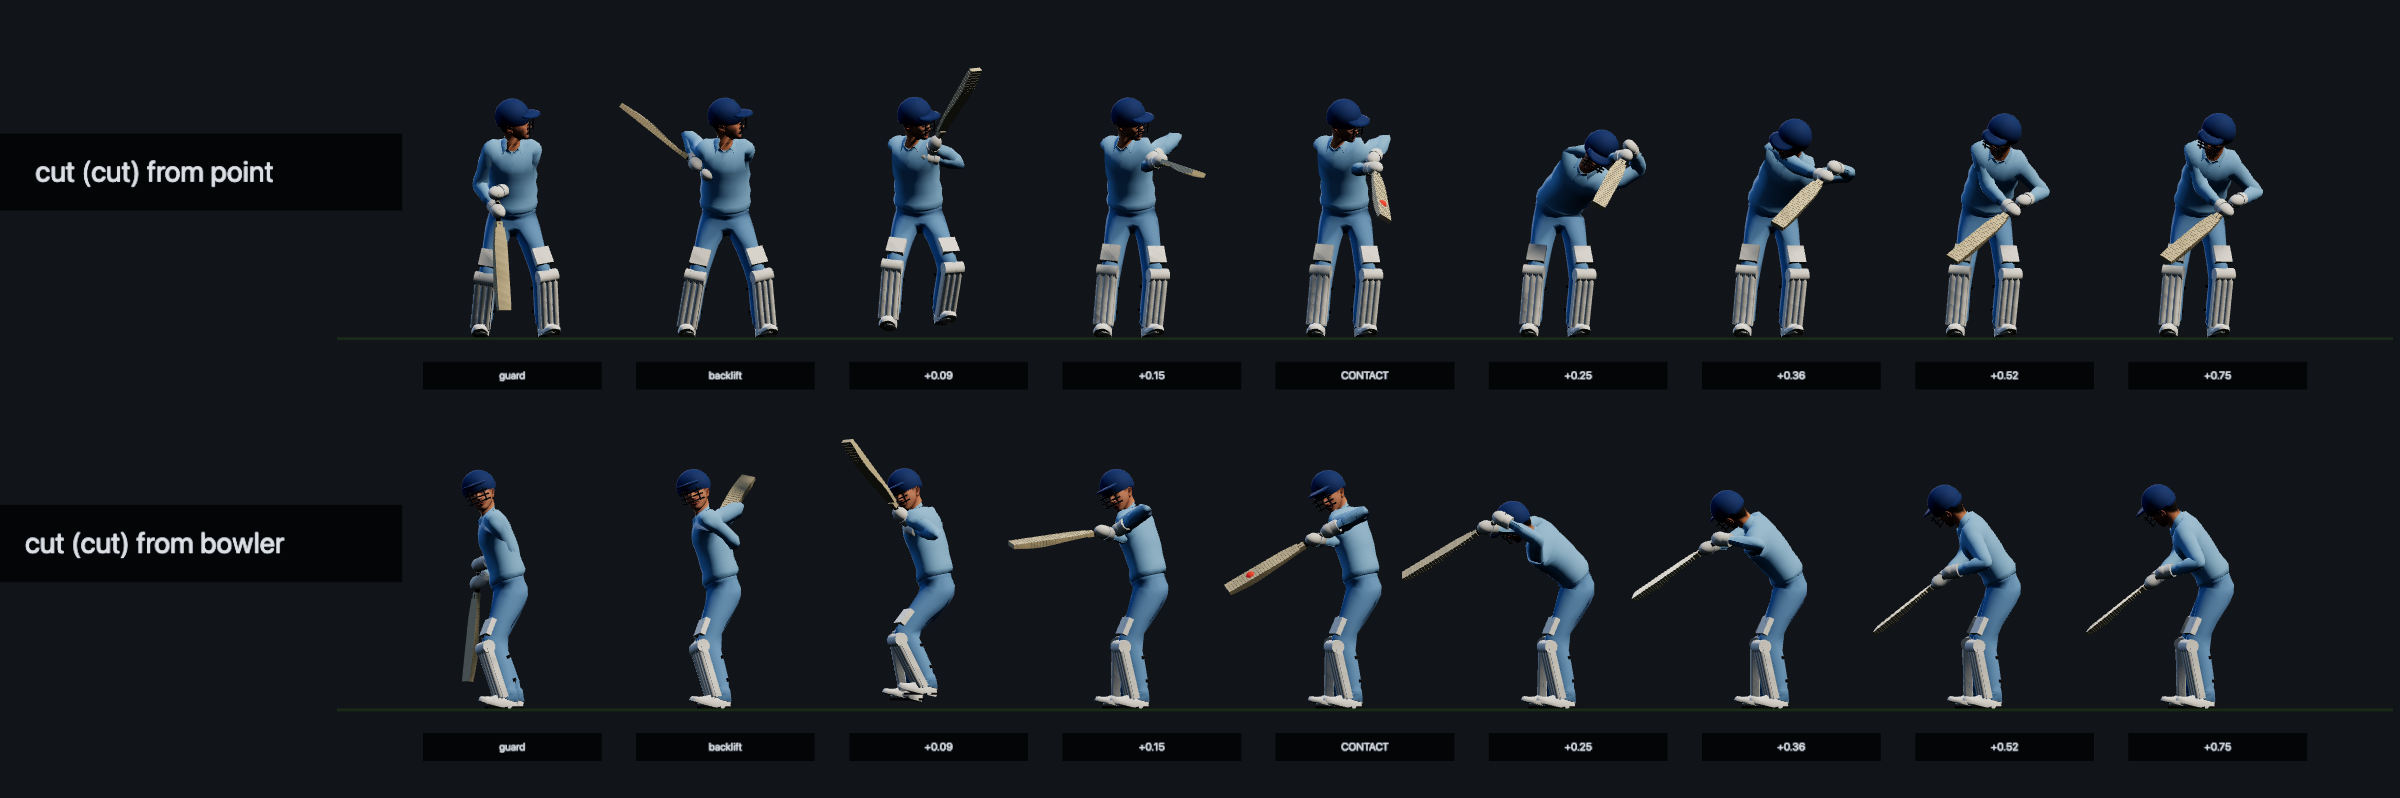
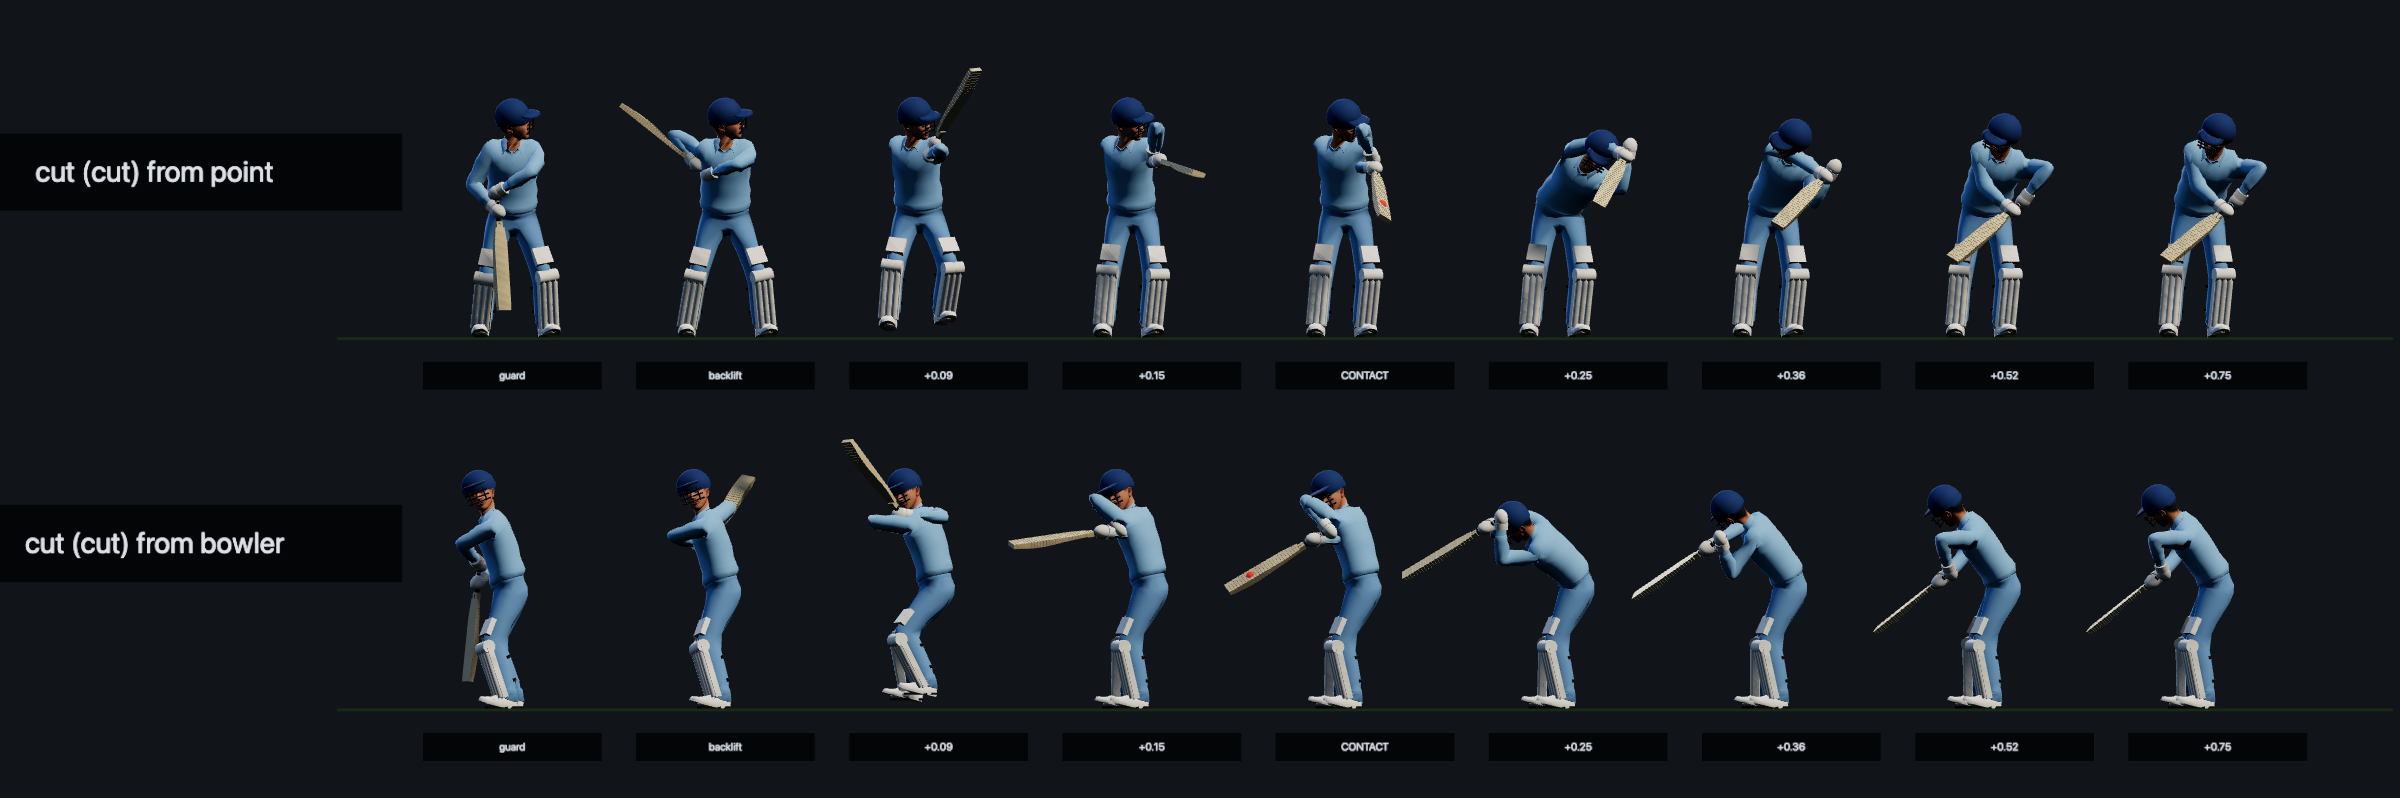
fix(anim): batsman's arms frame the body instead of hiding one
The front elbow was aimed back and down into the ribs, so from the batting
camera the whole front arm sat behind the chest and the batsman looked
one-armed. It now comes up and out in front (the high front elbow), and
the bottom-hand elbow points back toward the keeper away from the hip.
Bat-ball contact and both hands on the handle are unchanged.

diff --git a/lib/game/anim/pose.ts b/lib/game/anim/pose.ts
@@ -201,9 +201,20 @@ const _qFoot = new THREE.Quaternion();
 const _e = new THREE.Euler();
 const _m4 = new THREE.Matrix4();
 
-/** Poles for the two-handed grip, root space. Tuned against the harness. */
-const POLE_TOP_ELBOW = new THREE.Vector3(-0.55, -0.35, 0.75);
-const POLE_BOTTOM_ELBOW = new THREE.Vector3(0.45, -1, 0.35);
+/**
+ * Poles for the two-handed grip, in the chest's frame (it faces -Z, its left
+ * is -X). The front (top-hand) elbow comes up and out in front of the chest —
+ * the "high front elbow" every coach asks for — rather than back and down
+ * into the ribs, which tucked the whole front arm behind the body so that
+ * from the batting camera the batsman looked one-armed.
+ */
+const POLE_TOP_ELBOW = new THREE.Vector3(-0.6, 0.45, -0.65);
+/**
+ * The bottom-hand elbow points back toward the keeper and away from the hip,
+ * so from behind the arms frame the body instead of the back arm lying flat
+ * along the ribs.
+ */
+const POLE_BOTTOM_ELBOW = new THREE.Vector3(0.85, -0.35, 0.55);
 
 /**
  * Write `p` onto `rig`. FK first, then each IK contact blended in by its
